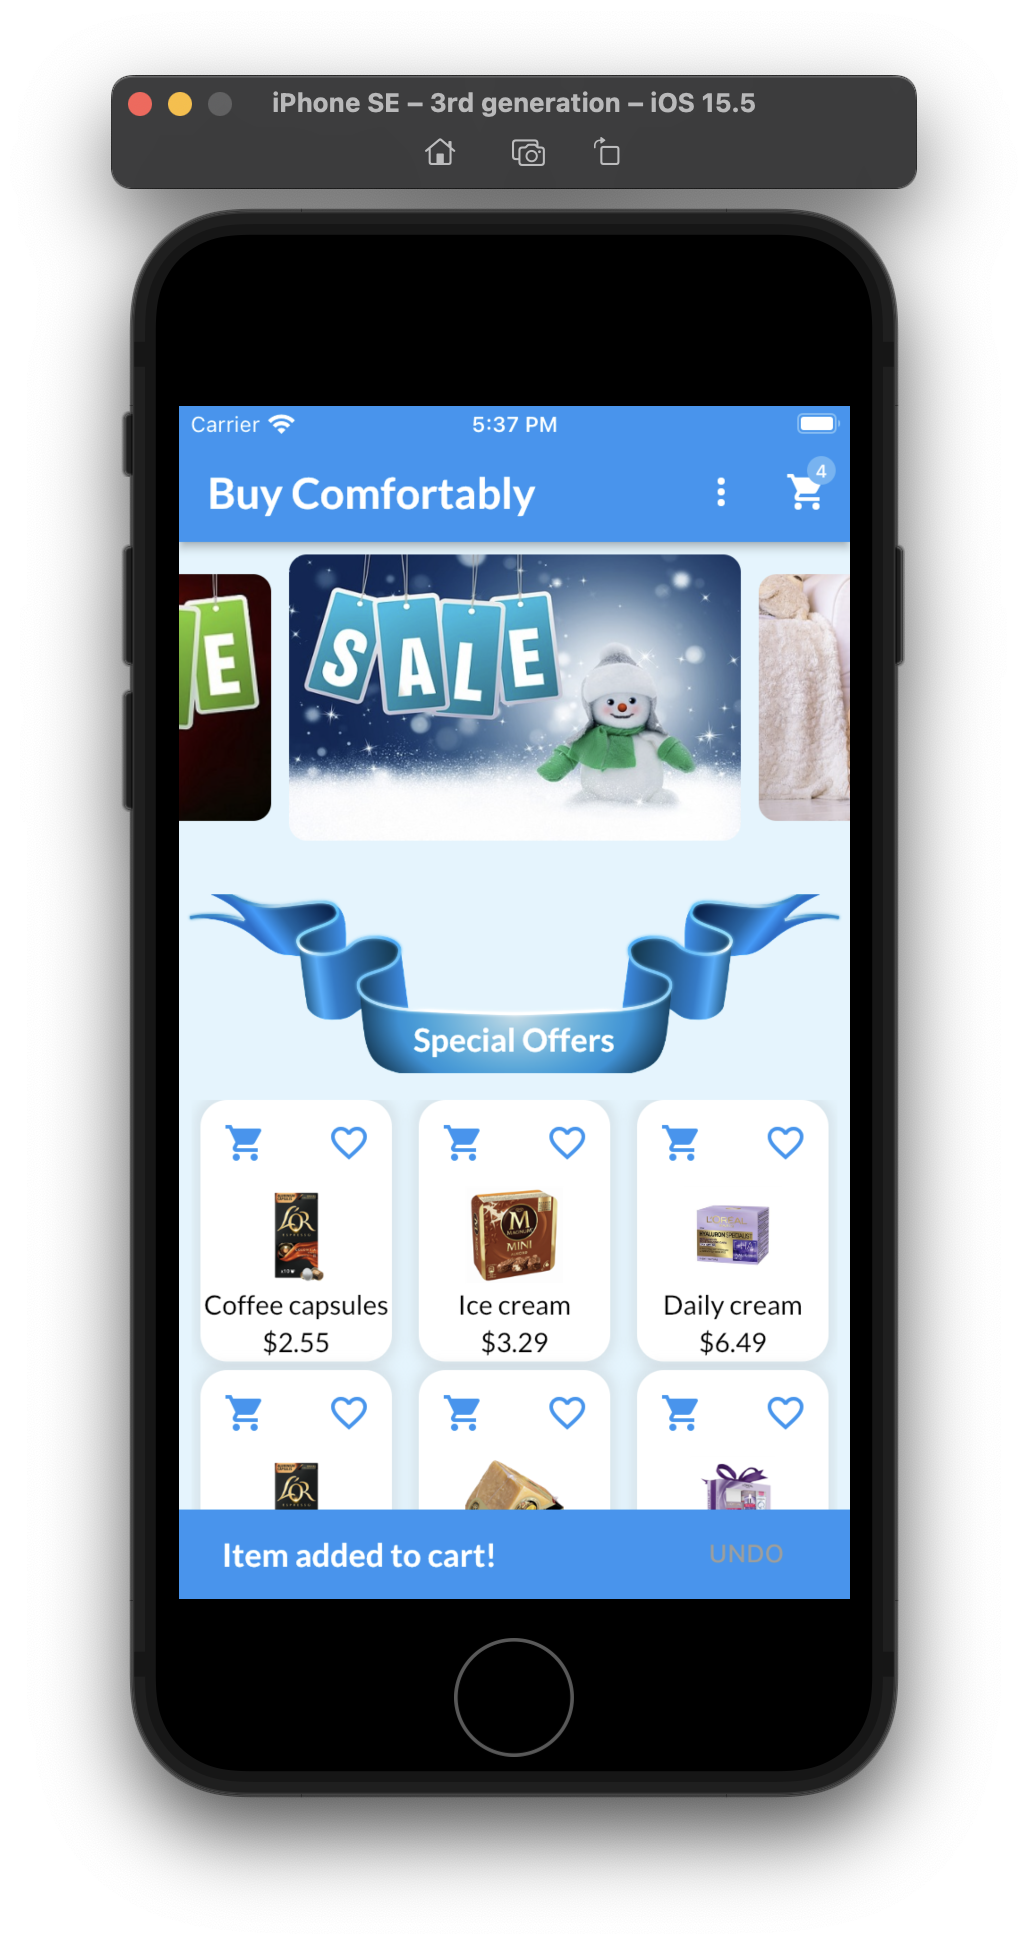
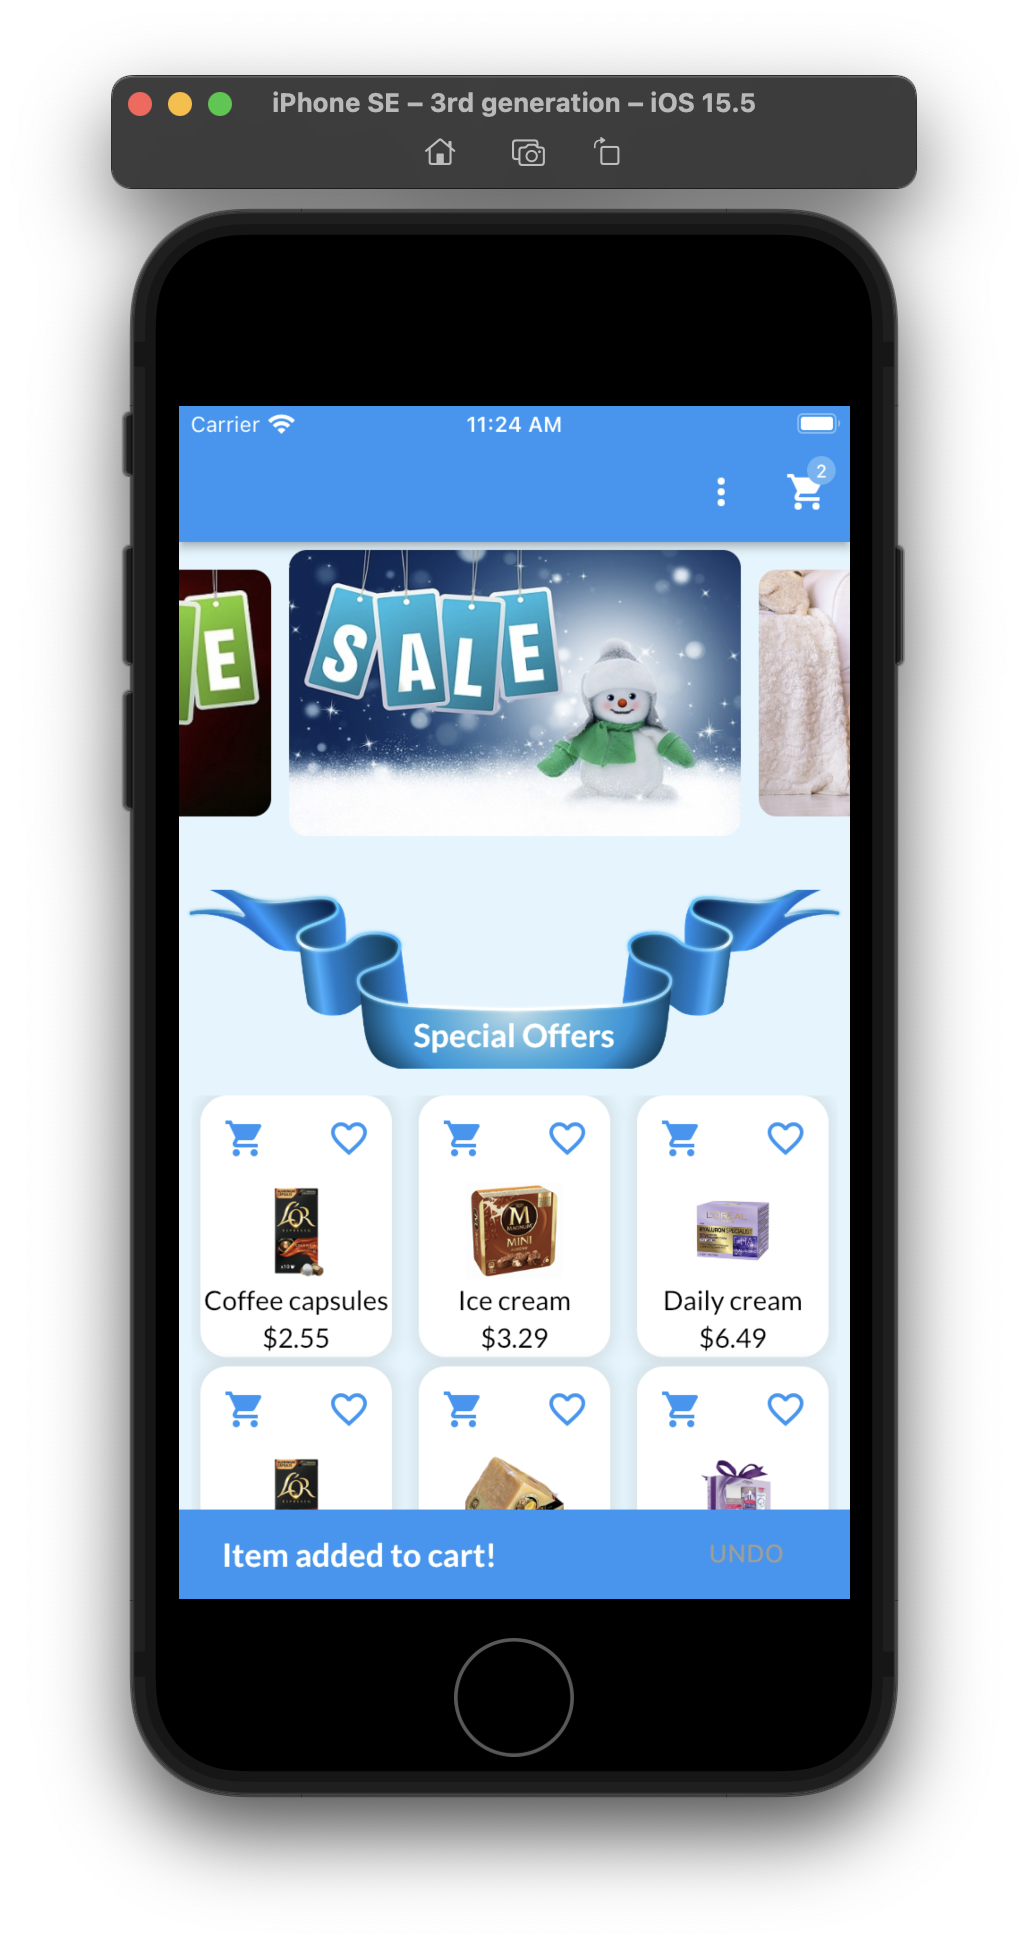
update

diff --git a/lib/screens/product_detail_screen.dart b/lib/screens/product_detail_screen.dart
@@ -24,12 +24,7 @@ class ProductDetailScreen extends StatelessWidget {
     ).findById(productId);
     return Scaffold(
       backgroundColor: Colors.lightBlue[50],
-      appBar: AppBar(
-        title: Text(
-          loadedProduct.title,
-          style: Theme.of(context).textTheme.headline3,
-        ),
-      ),
+      appBar: AppBar(),
       body: SingleChildScrollView(
         child: Column(
           children: <Widget>[
